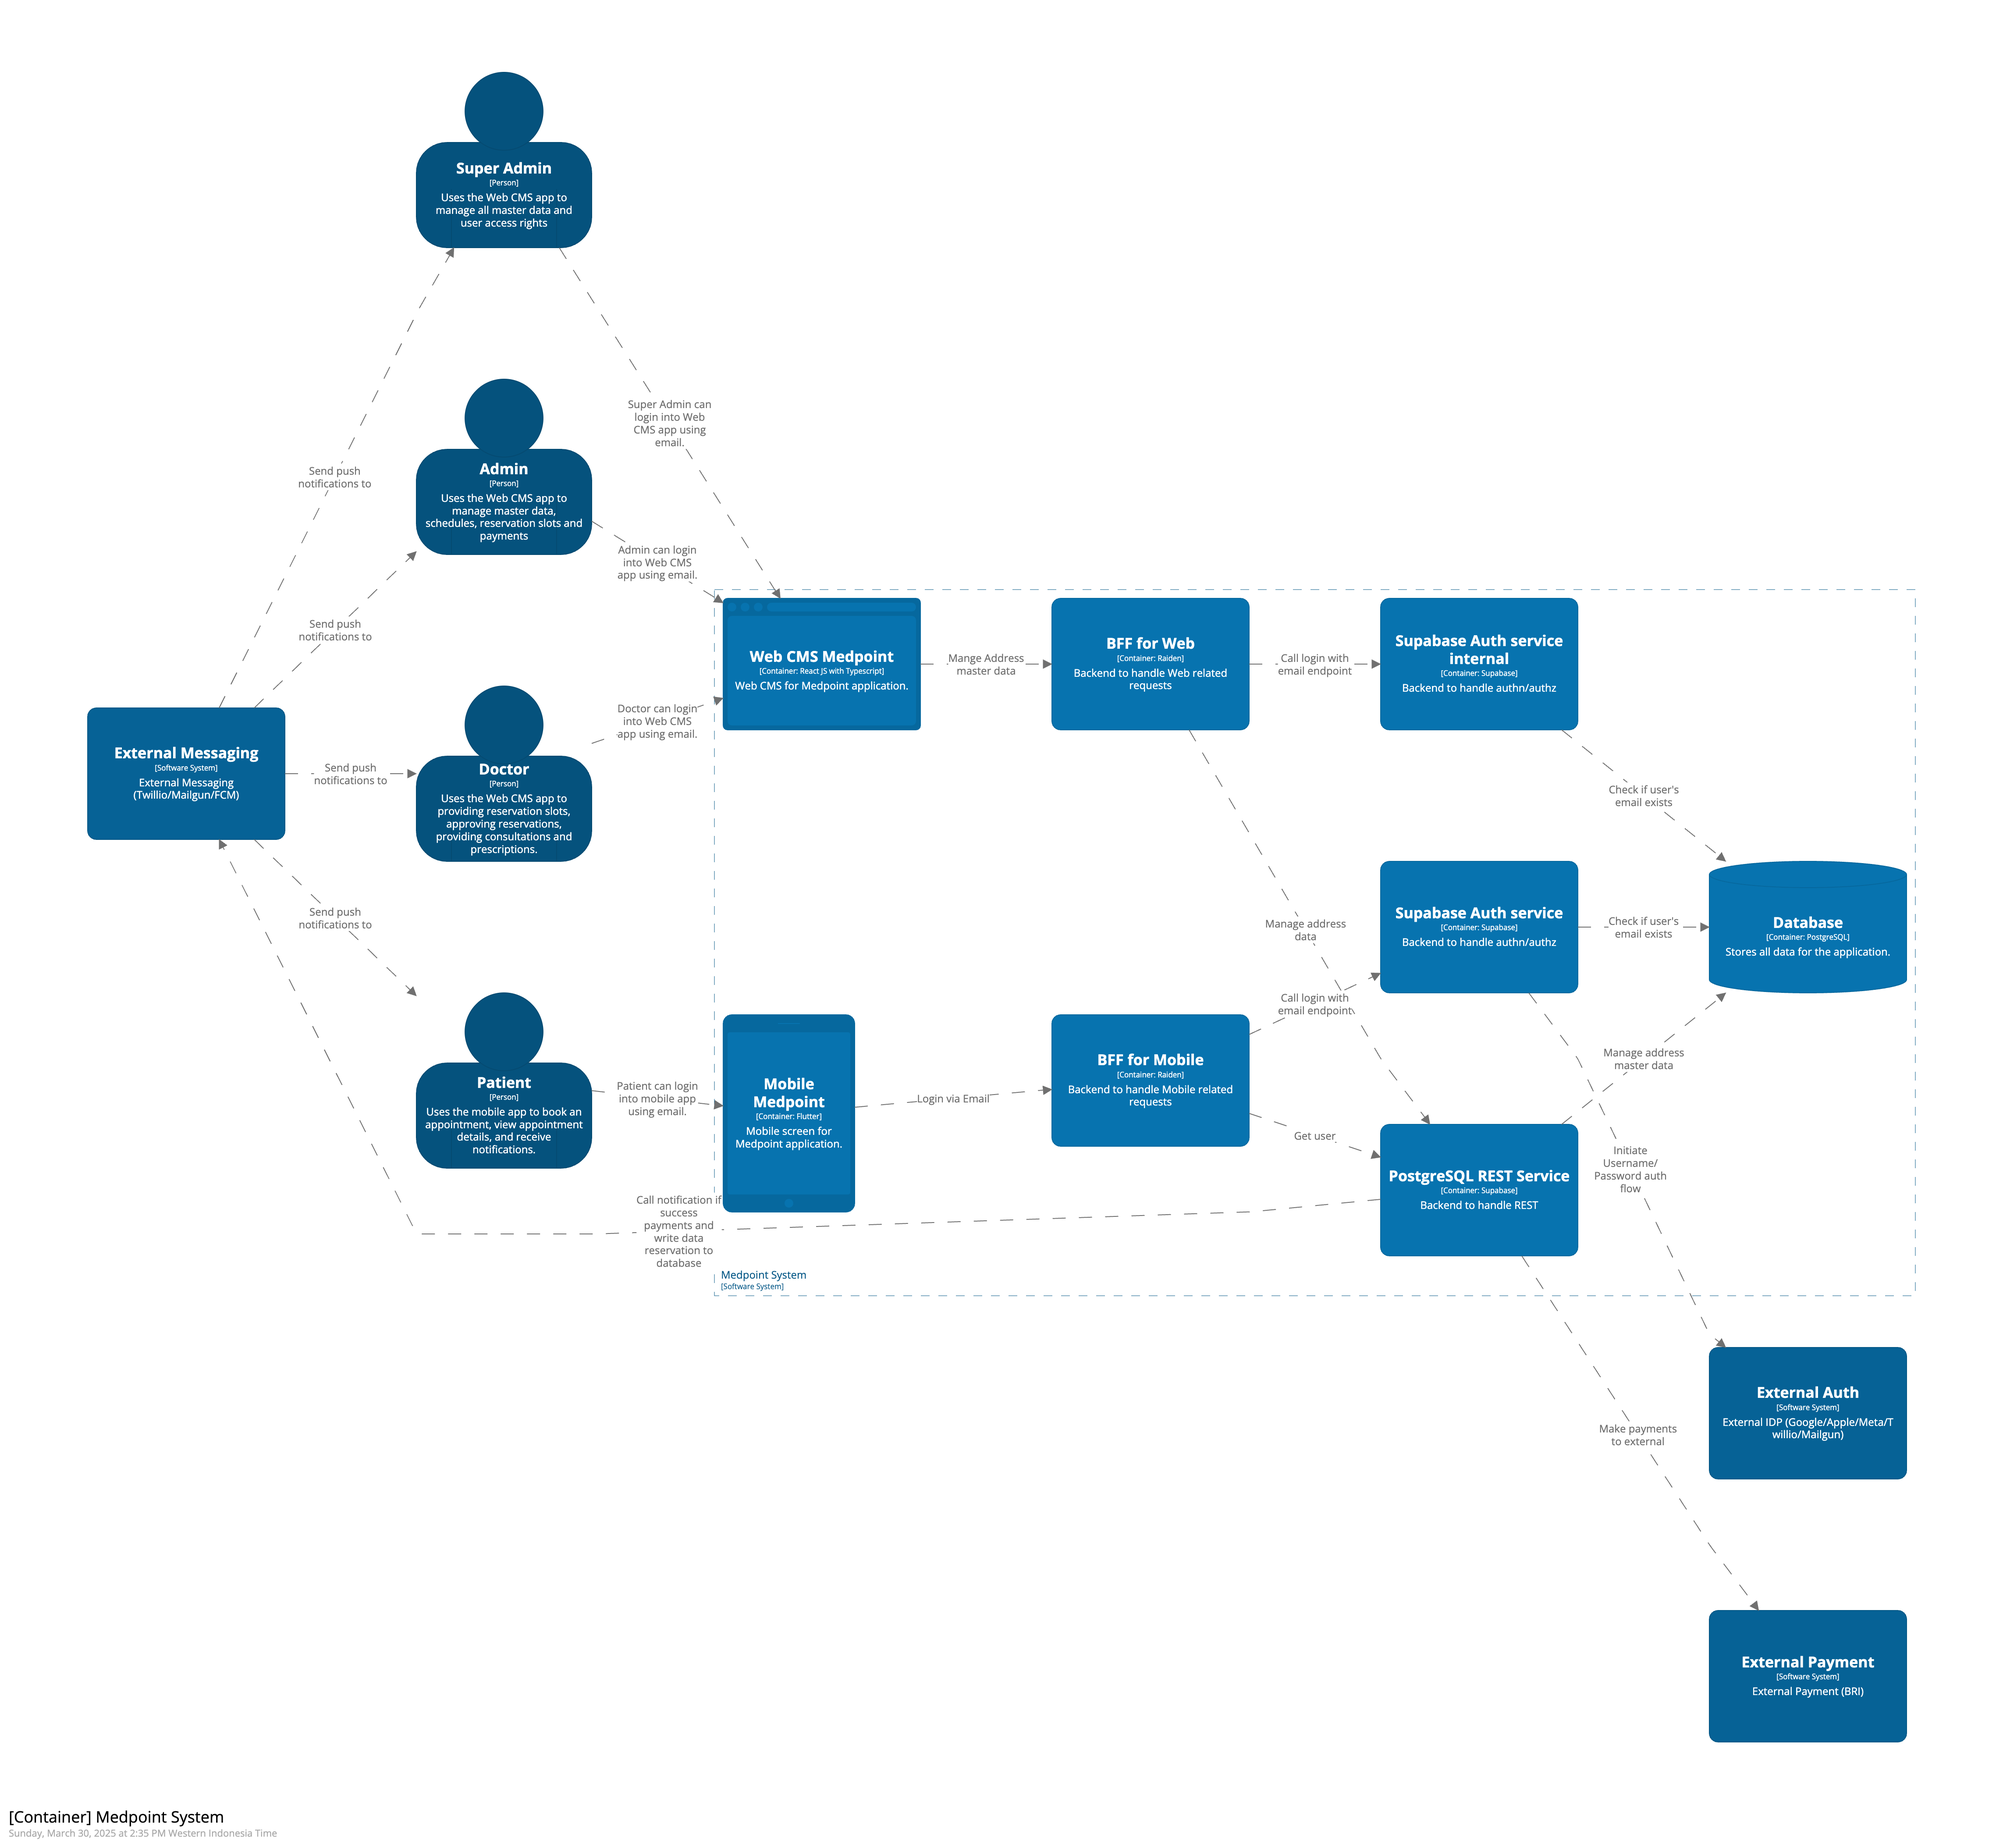
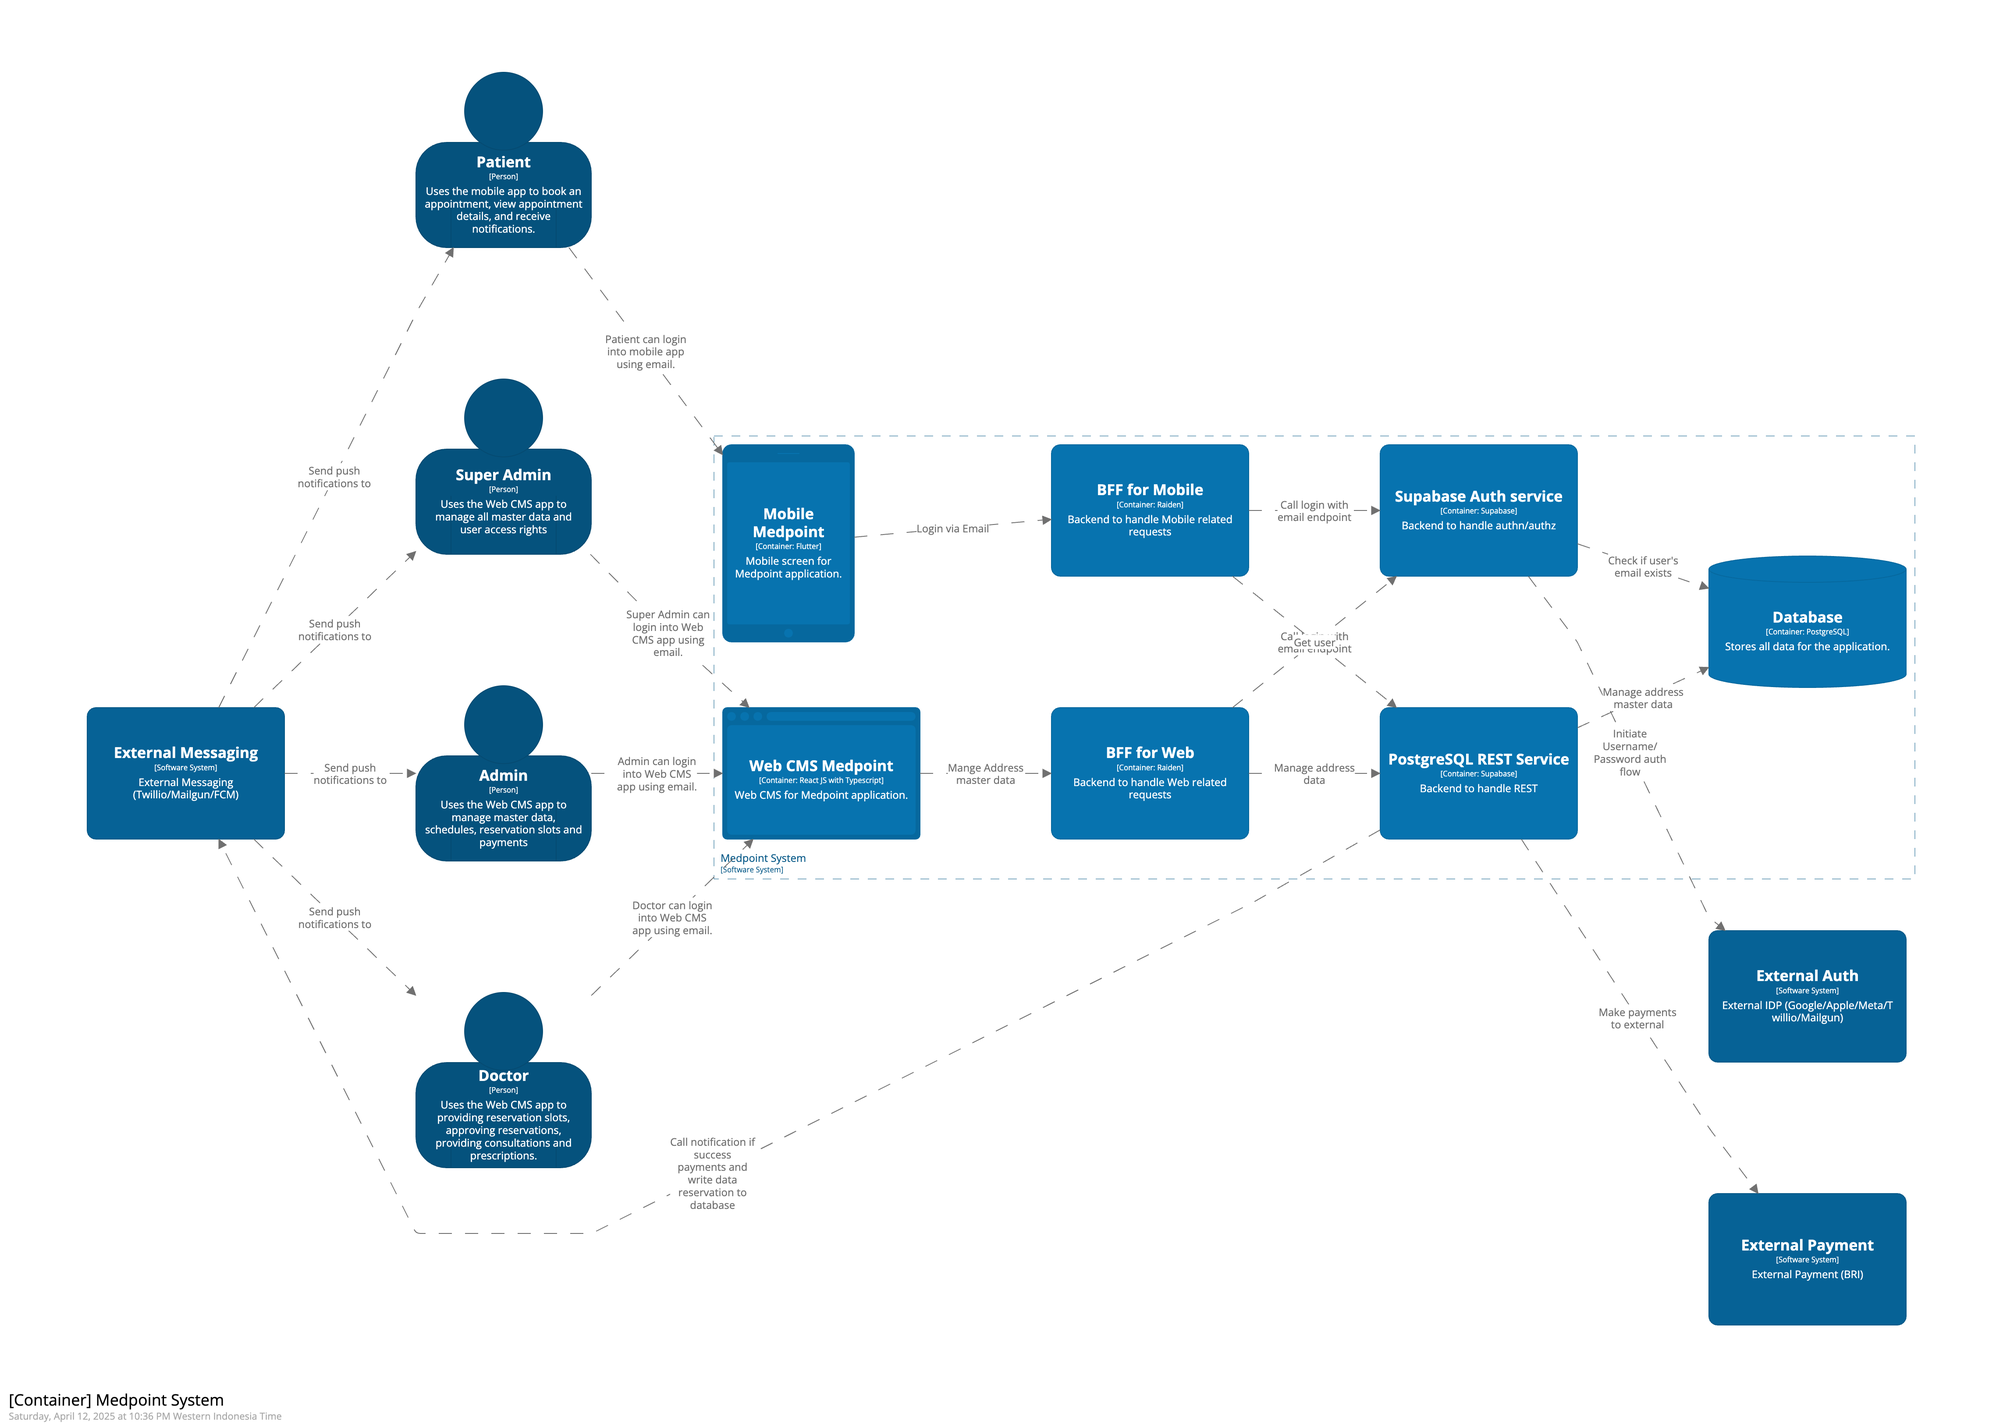
Update supabse auth web and update code diagram C4

diff --git a/codediagram/reservation_mobile.md b/codediagram/reservation_mobile.md
@@ -1,0 +1,24 @@
+```mermaid
+graph TD
+    subgraph Mobile Side
+        User[User]
+        ReservationScreen[Reservation Screen - reservation_screen.dart]
+    end
+
+    subgraph Flutter App
+        User --> ReservationScreen
+        ReservationScreen --> ReservationService[reservation_service.dart - HTTP Call using supabase_flutter]
+        ReservationService --> ReservationRepository[reservation_repository.dart]
+    end
+
+    subgraph Backend Raiden Framework
+        ReservationRepository -->|POST /api/reservations| ReservationMiddleware[Middleware - Check JWT authorization]
+        ReservationMiddleware --> ReservationController[Reservation Controller - internal/controllers/reservation.go]
+        ReservationController --> ReservationFunction[Reservation Function - internal/controllers/reservation.go]
+        ReservationFunction -->|Store reservation to| ReservationDB[(Reservation Database)]
+        ReservationFunction --> ReservationController
+    end
+
+    ReservationController -->|Response: Reservation Success| ReservationScreen
+    ReservationScreen -->|Navigate to Transaction screen| TransactionsScreen[Flutter Transactions Screen - transactions_screen.dart]
+```

diff --git a/codediagram/login.md b/codediagram/login.md
@@ -1,0 +1,26 @@
+```mermaid
+    graph TD
+    subgraph User Side
+        User[User]
+        LoginPage[ReactJS - LoginPage.tsx]
+    end
+
+    subgraph Frontend App ReactJS
+        User --> LoginPage
+        LoginPage --> AuthAPI[Auth API Call using @supabase/supabase-js]
+    end
+    
+    subgraph Backend Raiden Framework
+        AuthAPI -->|POST /api/login| AuthController[Auth Controller - internal/controllers/auth.go]
+        AuthController --> AuthFunction[Auth Function - internal/controllers/auth.go]
+        AuthFunction --> |Check if user's email exist and password is valid| UserDB[(User Database)]
+        AuthFunction --> TokenService[JWT Generator]
+        TokenService --> AuthController
+    end
+    
+    AuthController -->|Response: JWT Token| LoginPage
+    LoginPage -->|Store token to localStorage| UserSession[User Session]
+    
+    UserSession -->|Authenticated Request| ProtectedPage[Protected Page]
+    ProtectedPage -->|GET /api/user/profile| Backend
+```

diff --git a/codediagram/register_mobile.md b/codediagram/register_mobile.md
@@ -1,0 +1,23 @@
+```mermaid
+graph TD
+    subgraph Mobile Side
+        User[User]
+        RegisterScreen[Flutter Register Screen - register_screen.dart]
+    end
+
+    subgraph Flutter App
+        User --> RegisterScreen
+        RegisterScreen --> AuthService[auth_service.dart HTTP Call using supabase_flutter]
+        AuthService --> AuthRepository[auth_repository.dart]
+    end
+
+    subgraph Backend Raiden Framework
+        AuthRepository -->|POST /api/register| RegisterController[Register Controller - internal/controllers/register.go]
+        RegisterController --> RegisterFunction[Register Function - internal/controllers/register.go]
+        RegisterFunction -->|Store data user to| UserDB[(User Database)]
+        RegisterFunction --> RegisterController
+    end
+
+    RegisterController -->|Response: Success Register| RegisterScreen
+    RegisterScreen -->|Redirect to Login screen| UserSession[Flutter Login Screen - login.dart]
+```

diff --git a/codediagram/data_doctor.md b/codediagram/data_doctor.md
@@ -1,0 +1,45 @@
+```mermaid
+graph TD
+  subgraph User Interface
+    A1[Doctor Login Page]
+    A2[Doctor Dashboard]
+    A3[Doctor Profile Page]
+    A4[Schedule Management]
+  end
+
+  subgraph React App TypeScript
+    B1[Login Component]
+    B2[Auth Context]
+    B3[DoctorService.ts]
+    B4[ScheduleService.ts]
+  end
+
+  subgraph Backend API
+    C1[Auth API - /login]
+    C2[Doctor API - /doctor/:id]
+    C3[Schedule API - /doctor/:id/schedules]
+  end
+
+  subgraph Database
+    D1[(Doctors Table)]
+    D2[(Schedules Table)]
+    D3[(Users Table)]
+  end
+
+  %% Flow
+  A1 --> B1
+  B1 --> B2
+  B2 --> C1
+  C1 --> D3
+
+  A2 --> B3
+  B3 --> C2
+  C2 --> D1
+
+  A4 --> B4
+  B4 --> C3
+  C3 --> D2
+
+  A3 --> B3
+  B3 --> C2
+```

diff --git a/README.md b/README.md
@@ -52,5 +52,7 @@
 ## Code Diagram (C4)
 1. [Login]
    ![image](preview/login_c4.png)
-2. [Reservation]
-   ![image](preview/reservation_c4.png)
+2. [Register Flutter]
+   ![image](preview/register_flutter_c4.png)
+3. [Reservation]
+   ![image](preview/reservation_flutter_c4.png)
